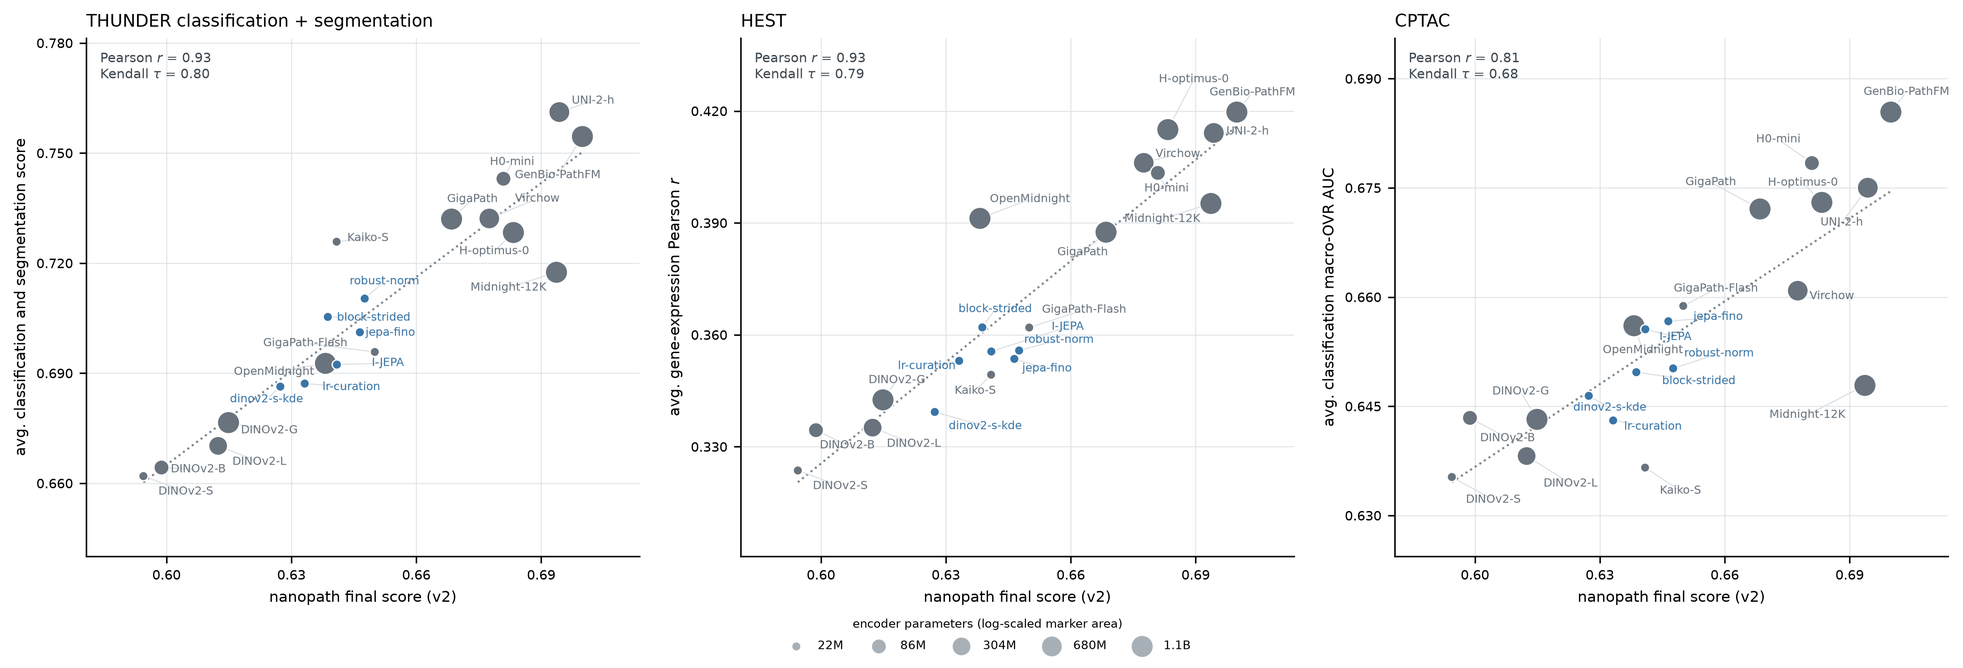
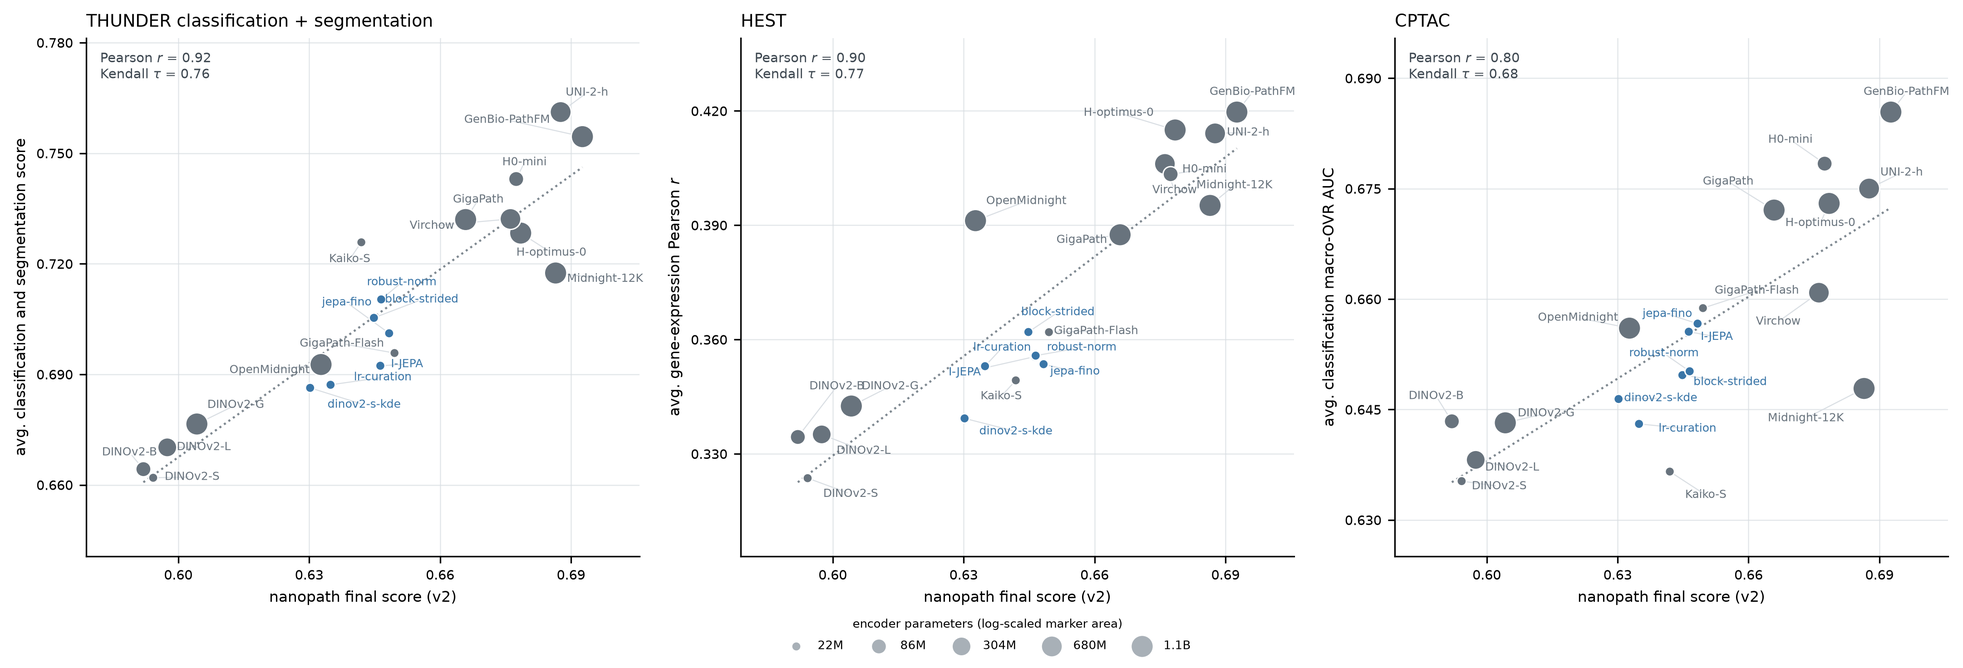
Average UCLA progression AUC across repeated stratified folds
Retain the raw balanced C=0.5 logistic head and average 100 three-fold
partitions with the fixed split seed. Record the repeat count for Labless
submission validation. Keep every dataset, tile, and final-score weight.

The reported three-training-seed AUC range falls from 0.071505 to 0.025838;
pooled within-group SD across 18 checkpoints falls 51%. Across the 19 README
models, 167/171 pair orderings are preserved. The only nanopath reversal is
jepa-fino versus robust-norm, separated by less than 0.002. THUNDER/HEST
rank agreement declines modestly; CPTAC Kendall is unchanged. Two older
training triplets become noisier, so the three-seed promotion rule remains.

Refresh all 14 reference encoders, all six nanopath figure checkpoints,
and the ten-seed random-feature audit. Keep protocol docs declarative and
remove obsolete progression experiments. Original AUCs reproduce exactly;
production folds, aggregation, metrics and submission transport are checked.

Coordinate publication with the Labless migration: rescore 11 retained
checkpoint records and four dotted references. Per maintainer direction,
leave eight unvalidated records without retained weights unchanged.

diff --git a/probe.py b/probe.py
@@ -970,17 +970,20 @@ def classification_head_metrics(train_embs, train_labels, val_embs, val_labels):
     }
 
 
+# Average held-out fold AUCs across fixed split repetitions to reduce partition sensitivity.
 def slide_linear_auc_metrics(embs, labels):
     import numpy as np
     from sklearn.linear_model import LogisticRegression
     from sklearn.metrics import roc_auc_score
+    from sklearn.model_selection import RepeatedStratifiedKFold
 
+    cv = RepeatedStratifiedKFold(n_splits=REPEATED_FOLDS, n_repeats=100, random_state=SEG_SPLIT_SEED)
     folds = []
-    for tr, va in stratified_folds(labels):
+    for tr, va in cv.split(embs, labels):
         head = LogisticRegression(C=PATHOBENCH_LR_C, class_weight="balanced", max_iter=SURGEN_LR_MAX_ITER, random_state=0).fit(embs[tr], labels[tr])
         probs = head.predict_proba(embs[va])
         folds.append(float(roc_auc_score(labels[va], probs[:, 1] if probs.shape[1] == 2 else probs, multi_class="ovr", average="macro")))
-    return {"val_auc": float(np.mean(folds)), "c": PATHOBENCH_LR_C, "fold_scores": folds}
+    return {"val_auc": float(np.mean(folds)), "c": PATHOBENCH_LR_C, "fold_scores": folds, "repeats": cv.n_repeats}
 
 
 # Worker entry point launched by queue_probe_job(); owns model loading and probe aggregation.
@@ -1147,6 +1150,7 @@ def run_probe_job(request_path):
     for dataset in slide:
         metrics[f"probe_{dataset}_val_auc"] = slide_metrics[dataset]["val_auc"]
         metrics[f"probe_{dataset}_c"] = slide_metrics[dataset]["c"]
+        metrics[f"probe_{dataset}_repeats"] = slide_metrics[dataset]["repeats"]
         per_dataset_score[dataset] = slide_metrics[dataset]["val_auc"]
         fold_scores[dataset] = slide_metrics[dataset]["fold_scores"]
         results[dataset] = slide_metrics[dataset]

diff --git a/benchmarking/validation.md b/benchmarking/validation.md
@@ -11,15 +11,9 @@ The first is an implementation-parity check. The second is post-freeze evidence
 about proxy fidelity, not permission to tune weights or datasets against test
 outcomes.
 
-The benchmark components and manifests were frozen at commit
-`c21c9d8e1b824018badbf2a88b7693491f4daa4d` before the final official-result
-audit. The current 30/15/17.5/15/7.5/15 weights are a scoring-policy choice;
-stored predictive results were rescored arithmetically and robustness was
-recomputed from the same frozen embeddings with CRoMa. The selected THUNDER
-manifest SHA-256 is
[1 lines of base64/hex data omitted]
-release commits changed packaging, baseline launchers, comments, and
-documentation without changing the manifest or predictive component protocols.
+The selected THUNDER manifest SHA-256 is
[1 lines of base64/hex data omitted]
+The 30/15/17.5/15/7.5/15 weights are a fixed scoring-policy choice.
 
 ## Leakage and manifest audit
 
@@ -114,130 +108,36 @@ pooling. Runtime depends on image-cache warmth, backbone size, feature width,
 and CPU decode throughput; the limit is a release qualification on the target
 H100, not a promise for arbitrary hardware.
 
-## Training-seed audit and promotion margin
+## Training-seed validation
 
-Two nanopath recipes were independently trained at seeds 17, 29, and 43 while
-the data split and probe randomness stayed fixed. These are audit seeds, not a
-fixed promotion panel:
+A maintainer reruns promising candidates with three different randomly
+selected training seeds. The median run must beat the incumbent by at least
+**0.004** to become the validated leader. The discovery run is excluded;
+`robust-norm-s9876` is the approved exception. This is a fixed promotion
+policy, not a margin recalculated from each candidate's measured variance.
 
-| Recipe | Seed 17 | Seed 29 | Seed 43 | Mean | Sample SD |
-|---|---:|---:|---:|---:|---:|
-| Main DINOv2/KDE | 0.619722 | 0.620240 | 0.615958 | 0.618640 | 0.002337 |
-| robust-norm | 0.645294 | 0.645239 | 0.646023 | 0.645518 | 0.000438 |
+### Progression stability
 
-CRoMa's weighted three-seed range is 0.000593 for main and 0.001206 for
-robust-norm; the complete revised score ranges are 0.004282 and 0.000784.
-The pooled within-recipe run SD is 0.001681. The **0.004** promotion margin is a
-fixed conservative policy and is not recomputed per candidate. A maintainer
-reruns a candidate with three different randomly selected seeds; the median run
-must clear the margin. The discovery run is excluded. No official evaluation
-result was used in this calibration.
+Across six three-seed groups (18 completed checkpoints), UCLA's pooled
+within-group sample SD is 0.011269. The groups cover related main,
+robust-norm and drop-local recipes on the same 90-slide cohort.
+Observed within-group AUC ranges are 0.015750–0.025879, contributing
+0.002756–0.004529 to the weighted score. Repeated splits do not eliminate
+training-seed variability or the need for independent training runs.
 
-### Progression variance audit (2026-09-05)
+Seven 1,000-repeat checks yield weighted SD 0.00030–0.00050 across disjoint
+100-repeat blocks. One hundred complete-protocol label permutations each
+for main and UNI2-h average 0.48908 and 0.49258 AUC. The 300-fit head takes
+about 3 seconds for main and at most 27 seconds across the 20 reference
+encoders on one CPU thread. Frozen-input head and aggregation checks cover
+41 distinct encoders, including training seeds and random controls.
 
-The same six completed checkpoints above were re-embedded using their saved
-model implementations. UCLA's 90-slide manifest (35/55 labels), all 26,714
-tiles, raw mean pooling, and balanced logistic head (`C=0.5`) stayed fixed.
-Re-extraction reproduced all six released progression AUCs within 1e-15.
-Only the AUC estimator changed; no official test image, label, or score entered
-the comparison. The manifest also exactly matched PathoBench's fold-0 training
-IDs and labels at revision `60fde3a9138b2fb27a163ed6f3e2cf0ef7e8f387`.
-
-| Recipe / training seed | V2: 3 folds | 20 × 3 folds | 20 × 5 folds | Leave-pair-out |
-|---|---:|---:|---:|---:|
-| Main / 17 | 0.520305 | 0.572976 | 0.573571 | 0.569091 |
-| Main / 29 | 0.524935 | 0.575204 | 0.569286 | 0.571688 |
-| Main / 43 | 0.515676 | 0.555293 | 0.546558 | 0.540000 |
-| robust-norm / 17 | 0.586922 | 0.600416 | 0.595130 | 0.581558 |
-| robust-norm / 29 | 0.583784 | 0.598404 | 0.595000 | 0.577922 |
-| robust-norm / 43 | 0.582241 | 0.617034 | 0.614740 | 0.592987 |
-| **Main sample SD** | **0.004630** | **0.010909** | **0.014518** | **0.017593** |
-| **robust-norm sample SD** | **0.002386** | **0.010225** | **0.011360** | **0.007861** |
-
-Repeated folds used `RepeatedStratifiedKFold(random_state=1337)`; AUCs were
-averaged within folds, never pooled across separately fitted heads. Each
-leave-pair-out head excluded one positive and one negative slide, then ranked
-that pair; the score averaged all 1,925 comparisons, with ties worth 0.5.
-The first 20 repetitions were specified before results. Extending to 200
-repetitions did not reverse either recipe's variance increase. Seeds 59/71
-were also inspected but excluded: main stopped at step 5,000 and robust-norm
-at step 3,000, short of their completed-run budgets.
-
-**None of these replacements qualifies as a training-seed variance fix.**
-At the study's then-current 25% progression weight, main's 0.009259 AUC range
-contributed 0.002315 to `final_score`; 20 × 3 folds increased it to 0.004978. More folds reduce
-sensitivity to a chosen partition, but do not create independent patients or
-necessarily reduce sensitivity to backbone training. Three training seeds per
-recipe are discovery evidence, not a precise population variance estimate.
-Fold SD is neither training-seed SD nor a confidence interval.
-
-Three freshly randomized DINOv2-S backbones still scored 0.6304–0.6345 under
-leave-pair-out, above the pretrained DINOv2-S score of 0.5338. Changing the
-estimator therefore did not resolve the random-feature limitation either.
-GPU work used at most four independent single-GPU jobs; head comparisons ran
-on CPU. Local scripts, cached features, raw fold/pair results, and provenance
-checks are under `/data/paul/nanopath/progression-study-20260905/`.
-
-The progression estimator and promotion rule remain unchanged. Independent development
-patients and UCLA patient grouping remain priorities (see
-[slide_probes.md](slide_probes.md)); the cohort study below evaluates four
-concrete additions under the then-current progression category's 25% weight.
-
-### Progression cohort audit (2026-09-05)
-
-Four PathoBench fold-0 training cohorts were evaluated on the exact 20 frozen
-encoders and official targets used by `threepanel-v2.png`, plus the six completed
-training-seed replicates above and three random DINOv2-S controls. The primary
-protocol uses at most 128 deterministic, source-spaced tiles per slide, frozen
-mean pooling, and the existing three-fold head. Classification uses balanced
-raw-feature logistic regression (`C=0.5`); Valentino PFS uses the existing
-censoring-aware Cox head. Caps 64/256 are sensitivities, not tuned against the
-official scores. Each addition shares the then-current 25% progression weight
-equally with UCLA: `new_final = old_final + 0.125 * (new_component - UCLA_AUC)`.
-
-| Progression component | THUNDER Kendall τ | HEST Kendall τ | CPTAC Kendall τ |
-|---|---:|---:|---:|
-| Current UCLA | 0.789 | 0.821 | 0.716 |
-| UCLA + VisioMel relapse, 1,073 patients | 0.779 | 0.789 | 0.663 |
-| UCLA + breast residual burden, 128 patients | 0.821 | 0.789 | 0.642 |
-| UCLA + HER2 response, 68 patients | 0.663 | 0.653 | 0.568 |
-| UCLA + Valentino PFS, 136 patients | 0.842 | 0.768 | 0.663 |
-| VisioMel replaces UCLA, sensitivity | 0.663 | 0.716 | 0.589 |
-
-**None qualifies as a reliable addition under this fast protocol.** VisioMel
-reduces main's progression contribution SD from 0.001157 to 0.000463, but raises
-robust-norm's from 0.000596 to 0.001468. Its Nanopath-only Kendall values remain
-unchanged; concordant Nanopath-versus-reference pairs fall from 75/78/74 to
-75/74/70 out of 84. Its 256-tile sensitivity retains the same three correlations
-and reduces both recipes' contribution SD by only about 3%. The smaller cohorts
-all increase main's progression variation. These are three-seed observations,
-not precise population variance estimates. VisioMel's paired model-bootstrap
-intervals for Kendall changes include zero; this is insufficient evidence for
-adoption, not a statistically decisive proof of harm.
-
-VisioMel's selected 1,073 patients (169 positive) match two identical archived
-2023 challenge-training label files and exclude all 541 original test IDs as
-well as PathoBench fold-0 test IDs. Repeated PathoBench partitions reuse patients;
-this reserves fold-0 tests, not the union of every repeated test partition.
-Eighteen positive cases have released relapse times beyond 60 months, so the
-released binary labels are retained without claiming an adjudicated strict
-five-year endpoint. One nearly achromatic image required a documented tissue-mask
-threshold correction; all patients remain included. Random encoders score
-0.713–0.718 and simple colour/tissue features score 0.678 on VisioMel.
-
-The unmodified production slide probe adds 95–101 seconds on the main and
-robust-norm readouts using an 11.67 GB prepared cache. Recurring cost is feasible;
-one-time source preparation transferred approximately 1.32 TB. Since the candidate
-failed the ordering/stability comparison, no new full-suite timing run was needed.
-Existing official aggregate scores were reused for this retrospective analysis;
-no official test image or label entered the new probes. Choosing a new protocol
-using these aggregates would still require independent validation, versioning,
-and promotion-margin recalibration. The current V2 score remains unchanged.
-
-The full report, per-model CSV, figures, scripts, source/split audits, cached
-features, and raw results are under
-`/data/paul/nanopath/progression-cohorts-20260905/` (`report.md`, `analysis.json`,
-`model-results.csv`). GPU work used at most four independent single-GPU jobs.
+All 26,714 UCLA tiles are used. Per-slide counts range from 12 to 1,453
+(median 240.5); sixteen slides have fewer than 64 tiles. In one training
+triplet, held-out probability SD averages 0.0345 below 64 tiles and 0.0338
+otherwise. This does not establish tissue coverage as the dominant source
+of instability, nor exclude a coverage problem. The missing patient mapping
+and high random-feature AUC remain limitations of this cohort.
 
 ## Official-suite ordering fidelity
 
@@ -258,7 +158,7 @@ measure rank agreement. None alone is treated as sufficient.
 | Classification / THUNDER classification | 0.987 | 0.995 | 0.987 | 1.000 |
 | Segmentation / matched 3-task THUNDER segmentation | 0.743 | 0.637 | 0.782 | 0.857 |
 | Segmentation / pinned full 4-task THUNDER segmentation | 0.668 | 0.558 | 0.753 | 0.833 |
-| Final score / existing official composite, 12 models | 0.902 | 0.888 | 0.864 | 0.914 |
+| Final score / existing official composite, 12 models | 0.876 | 0.860 | 0.848 | 0.886 |
 
 Classification preserves all 15 pairwise orderings among the six nanopath
 checkpoints. Matched-task segmentation preserves 11 of 15 nanopath-only pairs;
@@ -279,9 +179,9 @@ GigaPath-Flash:
 |---|---:|---:|
 | Classification / THUNDER | 0.988 | 0.958 |
 | Segmentation / THUNDER | 0.870 | 0.741 |
-| Final score / THUNDER classification + segmentation | 0.927 | 0.800 |
-| Final score / HEST | 0.929 | 0.789 |
-| Final score / CPTAC classification | 0.814 | 0.684 |
+| Final score / THUNDER classification + segmentation | 0.923 | 0.758 |
+| Final score / HEST | 0.896 | 0.768 |
+| Final score / CPTAC classification | 0.797 | 0.684 |
 
 The exact comparison input is
 [proxy-fidelity data](proxy_fidelity_v2.csv). Final scores use the assembled
@@ -293,7 +193,7 @@ uses complete same-checkpoint results for all 20 models.
 The benchmark was also run with independently randomized DINOv2-S backbones. This
 checks that heads do not obtain implausibly strong scores from class balance,
 spatial priors, slide leakage, or validation selection alone. The null audit
-uses the exact production manifests, transforms, heads, folds, and scalar; only
+uses the production manifests, transforms, heads, folds, and scalar; only
 the backbone initialization changes. All ten seeds were rescored with CRoMa;
 the original component results and revised scores are retained in
 [the random-feature audit](random_dinov2_s_v2.csv). The existing
@@ -302,23 +202,23 @@ is the runner, so the benchmark does not carry a second stale null script.
 
 | Component | Null mean | Sample SD | Min–max |
 |---|---:|---:|---:|
-| Final score | 0.4731 | 0.0028 | 0.4682–0.4764 |
+| Final score | 0.4669 | 0.0021 | 0.4631–0.4701 |
 | Classification | 0.3706 | 0.0026 | 0.3661–0.3739 |
 | Segmentation | 0.5128 | 0.0047 | 0.5067–0.5202 |
-| Progression | 0.6684 | 0.0085 | 0.6576–0.6841 |
+| Progression | 0.6330 | 0.0024 | 0.6285–0.6361 |
 | Mutation | 0.5502 | 0.0038 | 0.5437–0.5558 |
 | Survival | 0.5985 | 0.0076 | 0.5842–0.6100 |
 | CRoMa robustness | 0.2706 | 0.0071 | 0.2569–0.2795 |
 
 All trained or pretrained reference final scores in
-[the proxy-fidelity data](proxy_fidelity_v2.csv) exceed the largest rescored random
-final score by at least 0.118. Classification, mutation, and robustness provide
+[the comparison data](proxy_fidelity_v2.csv) exceed the largest random
+final score by at least 0.122. Classification, mutation, and robustness provide
 clear separation. The segmentation null is numerically high because
 background and spatial priors earn F1. Every listed trained reference is at
 least 0.036 above the random maximum.
 
 Progression does **not** pass a clean random-feature interpretation: randomized
-features average 0.668 AUC and outperform multiple trained references. Survival
+features average 0.633 AUC and outperform multiple trained references. Survival
 also has weak separation, with a random mean of 0.598 and maximum of 0.610.
 Those components may measure cohort/image shortcuts or useful random nonlinear
 features as much as learned representation quality. They remain parts of the

diff --git a/README.md b/README.md
@@ -61,30 +61,30 @@ The `main` branch of `nanopath` codebase reflects the `lr-and-curation` nanopath
 
 | # | Description | final score | classification | segmentation | progression | mutation | survival | robustness | Contributors |
 |---|---|---:|---:|---:|---:|---:|---:|---:|---|
-| 1 | [robust-norm](https://github.com/MedARC-AI/nanopath/tree/robust-norm-v2) | **0.6476** | 0.7507 | 0.6024 | 0.6136 | 0.5885 | 0.6010 | 0.6088 | @anishdulal |
-| 2 | jepa-fino | 0.6465 | 0.7384 | 0.6016 | 0.5903 | 0.6190 | 0.6210 | 0.6132 | @ml-and-ml |
-| 3 | I-JEPA contig patch | 0.6409 | 0.7219 | 0.5993 | 0.5931 | 0.6148 | 0.6172 | 0.6143 | @NimaAsh |
-| 4 | block-strided-cls | 0.6388 | 0.7477 | 0.6039 | 0.5390 | 0.6066 | 0.6335 | 0.6069 | @RyanKim17920 |
-| 5 | [lr-and-curation](https://github.com/MedARC-AI/nanopath) | 0.6332 | 0.7048 | 0.5940 | 0.5948 | 0.6025 | 0.6199 | 0.6114 | @nevasini1 |
+| 1 | jepa-fino | **0.6483** | 0.7384 | 0.6016 | 0.6010 | 0.6190 | 0.6210 | 0.6132 | @ml-and-ml |
+| 2 | [robust-norm](https://github.com/MedARC-AI/nanopath/tree/robust-norm-v2) | 0.6465 | 0.7507 | 0.6024 | 0.6073 | 0.5885 | 0.6010 | 0.6088 | @anishdulal |
+| 3 | I-JEPA contig patch | 0.6463 | 0.7219 | 0.5993 | 0.6238 | 0.6148 | 0.6172 | 0.6143 | @NimaAsh |
+| 4 | block-strided-cls | 0.6448 | 0.7477 | 0.6039 | 0.5738 | 0.6066 | 0.6335 | 0.6069 | @RyanKim17920 |
+| 5 | [lr-and-curation](https://github.com/MedARC-AI/nanopath) | 0.6349 | 0.7048 | 0.5940 | 0.6045 | 0.6025 | 0.6199 | 0.6114 | @nevasini1 |
 
 ### Baselines
 
 | # | Name | Description | final score | classification | segmentation | progression | mutation | survival | robustness |
 |---|---|---|---:|---:|---:|---:|---:|---:|---:|
-| 1 | GenBio-PathFM | GenBio-PathFM ViT-G/16 | **0.6999** | 0.8213 | 0.6100 | 0.7046 | 0.6232 | 0.6312 | 0.6525 |
-| 2 | UNI-2-h | MahmoodLab UNI-2-h ViT-H/14 | 0.6944 | 0.8161 | 0.6323 | 0.7156 | 0.6408 | 0.6105 | 0.5837 |
-| 3 | Midnight-12K | Kaiko Midnight-12K ViT-G/14 | 0.6937 | 0.7761 | 0.6326 | 0.7080 | 0.6170 | 0.6100 | 0.6918 |
-| 4 | H-optimus-0 | H-optimus-0 ViT-G/14-reg | 0.6833 | 0.8082 | 0.5916 | 0.6961 | 0.6485 | 0.6059 | 0.5838 |
-| 5 | H0-mini | Bioptimus H0-mini ViT-B/14-reg | 0.6809 | 0.7956 | 0.6371 | 0.6586 | 0.6026 | 0.5945 | 0.6429 |
-| 6 | Virchow | Paige/Microsoft Virchow ViT-H/14 | 0.6775 | 0.7728 | 0.6326 | 0.6541 | 0.6291 | 0.6173 | 0.6379 |
-| 7 | GigaPath | Prov-GigaPath tile encoder ViT-G/16 | 0.6685 | 0.7948 | 0.6197 | 0.6813 | 0.6130 | 0.5802 | 0.5492 |
-| 8 | GigaPath-Flash | Prov-GigaPath-Flash tile encoder ViT-S/16 | 0.6500 | 0.7742 | 0.5569 | 0.6620 | 0.5796 | 0.6122 | 0.5703 |
-| 9 | Kaiko-S/16 | Kaiko pathology ViT-S/16 | 0.6409 | 0.7737 | 0.6060 | 0.5963 | 0.5539 | 0.5907 | 0.5741 |
-| 10 | OpenMidnight | OpenMidnight ViT-G/14-reg | 0.6382 | 0.6640 | 0.6306 | 0.6748 | 0.5829 | 0.6058 | 0.6229 |
-| 11 | DINOv2-G/14 | Meta DINOv2-G/14-reg | 0.6149 | 0.6804 | 0.5753 | 0.5928 | 0.6038 | 0.6288 | 0.5534 |
-| 12 | DINOv2-L/14 | Meta DINOv2-L/14-reg | 0.6124 | 0.6632 | 0.5667 | 0.6298 | 0.6005 | 0.6009 | 0.5540 |
-| 13 | DINOv2-B/14 | Meta DINOv2-B/14-reg | 0.5988 | 0.6500 | 0.5691 | 0.5753 | 0.6062 | 0.6015 | 0.5449 |
-| 14 | DINOv2-S/14 | Meta DINOv2-S/14-reg | 0.5945 | 0.6480 | 0.5665 | 0.5364 | 0.6202 | 0.6220 | 0.5437 |
+| 1 | GenBio-PathFM | GenBio-PathFM ViT-G/16 | **0.6926** | 0.8213 | 0.6100 | 0.6630 | 0.6232 | 0.6312 | 0.6525 |
+| 2 | UNI-2-h | MahmoodLab UNI-2-h ViT-H/14 | 0.6876 | 0.8161 | 0.6323 | 0.6771 | 0.6408 | 0.6105 | 0.5837 |
+| 3 | Midnight-12K | Kaiko Midnight-12K ViT-G/14 | 0.6865 | 0.7761 | 0.6326 | 0.6669 | 0.6170 | 0.6100 | 0.6918 |
+| 4 | H-optimus-0 | H-optimus-0 ViT-G/14-reg | 0.6785 | 0.8082 | 0.5916 | 0.6683 | 0.6485 | 0.6059 | 0.5838 |
+| 5 | H0-mini | Bioptimus H0-mini ViT-B/14-reg | 0.6774 | 0.7956 | 0.6371 | 0.6387 | 0.6026 | 0.5945 | 0.6429 |
+| 6 | Virchow | Paige/Microsoft Virchow ViT-H/14 | 0.6761 | 0.7728 | 0.6326 | 0.6460 | 0.6291 | 0.6173 | 0.6379 |
+| 7 | GigaPath | Prov-GigaPath tile encoder ViT-G/16 | 0.6659 | 0.7948 | 0.6197 | 0.6663 | 0.6130 | 0.5802 | 0.5492 |
+| 8 | GigaPath-Flash | Prov-GigaPath-Flash tile encoder ViT-S/16 | 0.6496 | 0.7742 | 0.5569 | 0.6592 | 0.5796 | 0.6122 | 0.5703 |
+| 9 | Kaiko-S/16 | Kaiko pathology ViT-S/16 | 0.6420 | 0.7737 | 0.6060 | 0.6025 | 0.5539 | 0.5907 | 0.5741 |
+| 10 | OpenMidnight | OpenMidnight ViT-G/14-reg | 0.6327 | 0.6640 | 0.6306 | 0.6435 | 0.5829 | 0.6058 | 0.6229 |
+| 11 | DINOv2-G/14 | Meta DINOv2-G/14-reg | 0.6043 | 0.6804 | 0.5753 | 0.5320 | 0.6038 | 0.6288 | 0.5534 |
+| 12 | DINOv2-L/14 | Meta DINOv2-L/14-reg | 0.5975 | 0.6632 | 0.5667 | 0.5445 | 0.6005 | 0.6009 | 0.5540 |
+| 13 | DINOv2-S/14 | Meta DINOv2-S/14-reg | 0.5943 | 0.6480 | 0.5665 | 0.5352 | 0.6202 | 0.6220 | 0.5437 |
+| 14 | DINOv2-B/14 | Meta DINOv2-B/14-reg | 0.5920 | 0.6500 | 0.5691 | 0.5364 | 0.6062 | 0.6015 | 0.5449 |
 
 Baseline rows are frozen reference checkpoints evaluated with the same probe suite. They help calibrate the plot, but pathology-specific baselines are not valid initialization points for nanopath leaderboard submissions. The reference scripts live in `baselines/`.
 

diff --git a/benchmarking/slide_probes.md b/benchmarking/slide_probes.md
@@ -43,28 +43,23 @@ model or end-to-end finetuning is used.
 
 ## Progression and mutation
 
-UCLA and SurGen each use three `StratifiedKFold` splits with shuffle seed 1337
-over the complete development pool. On every fold:
+UCLA uses 100 repetitions of three stratified folds over the complete
+90-slide development pool, with `RepeatedStratifiedKFold(n_splits=3,
+n_repeats=100, random_state=1337)`. SurGen uses three `StratifiedKFold`
+splits with shuffle seed 1337. On every fold:
 
-- fit raw, unstandardized pooled features with
-  `LogisticRegression(C=0.5, class_weight="balanced", random_state=0,
-  max_iter=5000)`;
+- fit raw pooled features with `LogisticRegression(C=0.5,
+  class_weight="balanced", random_state=0, max_iter=5000)`;
 - report macro one-vs-rest validation AUC;
-- average the three fold scores.
+- average all held-out fold AUCs: 300 for UCLA, three for SurGen.
 
-The head and `C` are fixed. There is no validation hyperparameter selection,
-matching PathoBench's raw-feature linear protocol more closely than selecting
-`C` on the same folds being reported.
-
-These are three folds of one partition, not three repetitions. A
-[training-seed audit](validation.md#progression-variance-audit-2026-09-05)
-found that repeated folds and leave-pair-out AUC increased training-seed
-variability for both examined recipes; V2 therefore retains its original estimator.
-A subsequent [cohort audit](validation.md#progression-cohort-audit-2026-09-05)
-tested VisioMel relapse, breast residual burden, HER2 response, and Valentino
-PFS under the then-current 25% progression weight. None consistently
-improved training-seed stability and official-suite ordering under the fast probe;
-these research cohorts are not part of V2.
+Averaging over partitions reduces sensitivity to a particular split. Each
+slide is held out once per repetition; scores from different fitted heads
+are not pooled into one AUC. The head and regularization are fixed, with no
+validation hyperparameter selection. Results and metrics record the UCLA
+repeat count. Repeated folds reuse the same slides, so fold SD is not a
+patient-level confidence interval or an estimate of training-seed SD.
+See [validation](validation.md#progression-stability) for measured stability.
 
 UCLA's slide IDs are not verified patient IDs. The
 [source study](https://pmc.ncbi.nlm.nih.gov/articles/PMC7611527/) reports 112

diff --git a/labless/README.md b/labless/README.md
@@ -90,8 +90,8 @@ python baselines/dinov2_small_baseline.py configs/main.yaml
 ```
 
 The submit script detects `summary.family == "baseline"` and marks the run as
-`tier=baseline`. Labless uses UNI-2-h and Virchow as pathology references;
-DINOv2 giant, large, and small provide natural-image references. Other baselines,
+`tier=baseline`. Labless uses GenBio-PathFM and Virchow as pathology references;
+DINOv2 giant and small provide natural-image references. Other baselines,
 including GigaPath, can stay in the repo README without becoming Labless
 reference rows. The nanopath leaderboard still ranks validated completed full
 runs by score.
@@ -160,6 +160,8 @@ local artifact paths from submitted rows.
 The final score weights classification, segmentation, progression, mutation,
 survival, and CRoMa robustness at 30%, 15%, 17.5%, 15%, 7.5%, and 15%.
 Labless rejects scores that do not match those submitted components.
+UCLA progression averages 100 stratified three-fold repetitions; submissions
+must include `ucla_lung_repeats=100` in their metrics.
 
 Agents can crawl the public experiment ledger directly with the JSON API:
 
